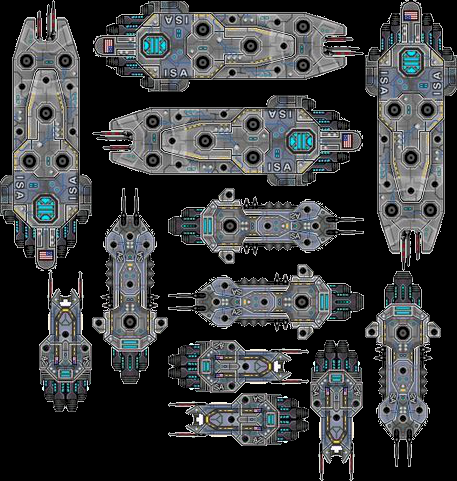
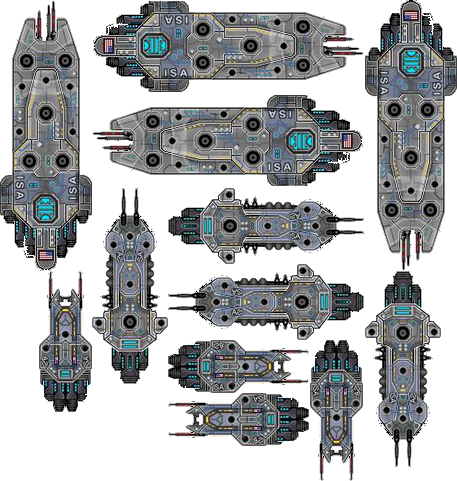
Optimise movement

diff --git a/rush01/index.css b/rush01/index.css
@@ -5,7 +5,7 @@ td {
 
 body {
 	margin: 0px;
-	background-color: #555;
+	background-color: rgb(35, 35, 38);
 }
 
 /* The popup form - hidden by default */

diff --git a/rush01/Player.class.php b/rush01/Player.class.php
@@ -36,15 +36,27 @@ class Player
 			$this->boardclass->board[$y - $kwargs['move']][$x] = $tmpship;
 		} else if ($rot == 2) {
 			$tmpship = $this->boardclass->board[$y][$x];
-			$this->boardclass->board[$y][$x] = 0;
+			for ($ytmp = $y; $ytmp < $y + $shipsize['w']; $ytmp++) {
+				for ($xtmp = $x; $xtmp > $x - $shipsize['l']; $xtmp--) {
+					$this->boardclass->board[$ytmp][$xtmp] = 0;
+				}
+			}
 			$this->boardclass->board[$y][$x + $kwargs['move']] = $tmpship;
 		} else if ($rot == 3) {
 			$tmpship = $this->boardclass->board[$y][$x];
-			$this->boardclass->board[$y][$x] = 0;
+			for ($ytmp = $y; $ytmp > $y - $shipsize['l']; $ytmp--) {
+				for ($xtmp = $x; $xtmp > $x - $shipsize['w']; $xtmp--) {
+					$this->boardclass->board[$ytmp][$xtmp] = 0;
+				}
+			}
 			$this->boardclass->board[$y + $kwargs['move']][$x] = $tmpship;
 		} else if ($rot == 4) {
 			$tmpship = $this->boardclass->board[$y][$x];
-			$this->boardclass->board[$y][$x] = 0;
+			for ($ytmp = $y; $ytmp > $y - $shipsize['w']; $ytmp--) {
+				for ($xtmp = $x; $xtmp < $x + $shipsize['l']; $xtmp++) {
+					$this->boardclass->board[$ytmp][$xtmp] = 0;
+				}
+			}
 			$this->boardclass->board[$y][$x - $kwargs['move']] = $tmpship;
 		}
 		$tmpship->moveForward($kwargs['move']);
@@ -55,29 +67,43 @@ class Player
 			return ("needEnergy");
 		}
 		$rot = $this->shipsarray[$kwargs['id']]->getrotation();
+		$shipsize = $this->shipsarray[$kwargs['id']]->getSize();
+		$shiplen = $shipsize['l'] / 2;
 		$x = $kwargs['posx'];
 		$y = $kwargs['posy'];
 		$tmpship = $this->boardclass->board[$y][$x];
 		if ($rot == 1) {
-
 			$tmpship->setRotation(4);
-			$this->boardclass->board[$y][$x] = 0;
-			$this->boardclass->board[$y][$x - 1] = $tmpship;
-		} else if ($rot == 4) {
-			//$tmpship = $this->boardclass->board[$y][$x];
-			$tmpship->setRotation(3);
-			$this->boardclass->board[$y][$x] = 0;
-			$this->boardclass->board[$y + 1][$x] = $tmpship;
-		} else if ($rot == 3) {
-			//$tmpship = $this->boardclass->board[$y][$x];
-			$tmpship->setRotation(2);
-			$this->boardclass->board[$y][$x] = 0;
-			$this->boardclass->board[$y][$x + 1] = $tmpship;
+			for ($ytmp = $y; $ytmp < $y + $shipsize['l']; $ytmp++) {
+				for ($xtmp = $x; $xtmp < $x + $shipsize['w']; $xtmp++) {
+					$this->boardclass->board[$ytmp][$xtmp] = 0;
+				}
+			}
+			$this->boardclass->board[$y][$x - $shiplen] = $tmpship;
 		} else if ($rot == 2) {
-			//$tmpship = $this->boardclass->board[$y][$x];
 			$tmpship->setRotation(1);
-			$this->boardclass->board[$y][$x] = 0;
-			$this->boardclass->board[$y - 1][$x] = $tmpship;
+			for ($ytmp = $y; $ytmp < $y + $shipsize['w']; $ytmp++) {
+				for ($xtmp = $x; $xtmp > $x - $shipsize['l']; $xtmp--) {
+					$this->boardclass->board[$ytmp][$xtmp] = 0;
+				}
+			}
+			$this->boardclass->board[$y - $shiplen][$x] = $tmpship;
+		} else if ($rot == 3) {
+			$tmpship->setRotation(2);
+			for ($ytmp = $y; $ytmp > $y - $shipsize['l']; $ytmp--) {
+				for ($xtmp = $x; $xtmp > $x - $shipsize['w']; $xtmp--) {
+					$this->boardclass->board[$ytmp][$xtmp] = 0;
+				}
+			}
+			$this->boardclass->board[$y][$x + $shiplen] = $tmpship;
+		} else if ($rot == 4) {
+			$tmpship->setRotation(3);
+			for ($ytmp = $y; $ytmp > $y - $shipsize['w']; $ytmp--) {
+				for ($xtmp = $x; $xtmp < $x + $shipsize['l']; $xtmp++) {
+					$this->boardclass->board[$ytmp][$xtmp] = 0;
+				}
+			}
+			$this->boardclass->board[$y + $shiplen][$x] = $tmpship;
 		}
 	}
 	function rotateRight(array $kwargs)
@@ -86,28 +112,46 @@ class Player
 			return ("needEnergy");
 		}
 		$rot = $this->shipsarray[$kwargs['id']]->getrotation();
+		$shipsize = $this->shipsarray[$kwargs['id']]->getSize();
+		$shiplen = $shipsize['l'] / 2;
 		$x = $kwargs['posx'];
 		$y = $kwargs['posy'];
 		if ($rot == 1) {
 			$tmpship = $this->boardclass->board[$y][$x];
 			$tmpship->setRotation(2);
-			$this->boardclass->board[$y][$x] = 0;
-			$this->boardclass->board[$y][$x + 1] = $tmpship;
+			for ($ytmp = $y; $ytmp < $y + $shipsize['l']; $ytmp++) {
+				for ($xtmp = $x; $xtmp < $x + $shipsize['w']; $xtmp++) {
+					$this->boardclass->board[$ytmp][$xtmp] = 0;
+				}
+			}
+			$this->boardclass->board[$y][$x + $shiplen] = $tmpship;
 		} else if ($rot == 2) {
 			$tmpship = $this->boardclass->board[$y][$x];
 			$tmpship->setRotation(3);
-			$this->boardclass->board[$y][$x] = 0;
-			$this->boardclass->board[$y + 1][$x] = $tmpship;
+			for ($ytmp = $y; $ytmp < $y + $shipsize['w']; $ytmp++) {
+				for ($xtmp = $x; $xtmp > $x - $shipsize['l']; $xtmp--) {
+					$this->boardclass->board[$ytmp][$xtmp] = 0;
+				}
+			}
+			$this->boardclass->board[$y + $shiplen][$x] = $tmpship;
 		} else if ($rot == 3) {
 			$tmpship = $this->boardclass->board[$y][$x];
 			$tmpship->setRotation(4);
-			$this->boardclass->board[$y][$x] = 0;
-			$this->boardclass->board[$y][$x - 1] = $tmpship;
+			for ($ytmp = $y; $ytmp > $y - $shipsize['l']; $ytmp--) {
+				for ($xtmp = $x; $xtmp > $x - $shipsize['w']; $xtmp--) {
+					$this->boardclass->board[$ytmp][$xtmp] = 0;
+				}
+			}
+			$this->boardclass->board[$y][$x - $shiplen] = $tmpship;
 		} else if ($rot == 4) {
 			$tmpship = $this->boardclass->board[$y][$x];
 			$tmpship->setRotation(1);
-			$this->boardclass->board[$y][$x] = 0;
-			$this->boardclass->board[$y - 1][$x] = $tmpship;
+			for ($ytmp = $y; $ytmp > $y - $shipsize['w']; $ytmp--) {
+				for ($xtmp = $x; $xtmp < $x + $shipsize['l']; $xtmp++) {
+					$this->boardclass->board[$ytmp][$xtmp] = 0;
+				}
+			}
+			$this->boardclass->board[$y - $shiplen][$x] = $tmpship;
 		}
 	}
 	function getShipList()

diff --git a/rush01/Board.class.php b/rush01/Board.class.php
@@ -82,31 +82,29 @@ class Board
 		if ($shiprot == 1) {
 			for ($ytmp = $y; $ytmp < $y + $shipsize['l']; $ytmp++) {
 				for ($xtmp = $x; $xtmp < $x + $shipsize['w']; $xtmp++) {
-					if ($x != $xtmp || $y != $ytmp) {
+					if ($x != $xtmp || $y != $ytmp)
 						$this->board[$ytmp][$xtmp] = array('x' => $x, 'y' => $y);
-					}
 				}
 			}
 		} else if ($shiprot == 2) {
 			for ($ytmp = $y; $ytmp < $y + $shipsize['w']; $ytmp++) {
 				for ($xtmp = $x; $xtmp > $x - $shipsize['l']; $xtmp--) {
+					if ($x != $xtmp || $y != $ytmp)
 						$this->board[$ytmp][$xtmp] = array('x' => $x, 'y' => $y);
 				}
 			}
 		} else if ($shiprot == 3) {
 			for ($ytmp = $y; $ytmp > $y - $shipsize['l']; $ytmp--) {
 				for ($xtmp = $x; $xtmp > $x - $shipsize['w']; $xtmp--) {
-					if ($x != $xtmp || $y != $ytmp) {
+					if ($x != $xtmp || $y != $ytmp)
 						$this->board[$ytmp][$xtmp] = array('x' => $x, 'y' => $y);
-					}
 				}
 			}
 		} else if ($shiprot == 4) {
 			for ($ytmp = $y; $ytmp > $y - $shipsize['w']; $ytmp--) {
 				for ($xtmp = $x; $xtmp < $x + $shipsize['l']; $xtmp++) {
-					if ($x != $xtmp || $y != $ytmp) {
+					if ($x != $xtmp || $y != $ytmp)
 						$this->board[$ytmp][$xtmp] = array('x' => $x, 'y' => $y);
-					}
 				}
 			}
 		}

diff --git a/rush01/Ship.class.php b/rush01/Ship.class.php
@@ -63,13 +63,13 @@ class Ship implements IShip
 		{
 			$this->rot = $newrot;
 			if ($this->rot == 1)
-				$this->y--;
+				$this->y -= $this->length / 2;
 			else if ($this->rot == 2)
-				$this->x++;
+				$this->x += $this->length / 2;
 			else if ($this->rot == 3)
-				$this->y++;
+				$this->y += $this->length / 2;
 			else if ($this->rot == 4)
-				$this->x--;
+				$this->x -= $this->length / 2;
 		}
 	}
 	function moveForward($trust)
